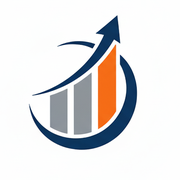
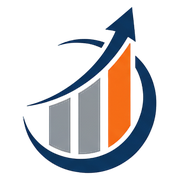
Transparent derived mark; invite example at the inviter's domain; Pillow declared
- manage.py build_favicons --derive writes assets/brand/mark-transparent.png
  beside the owner's mark (which is unchanged) and builds the icons from
  it: only the white connected to the edge becomes transparent, the
  anti-aliased edge is un-mixed from white so there is no halo, and the
  margins are trimmed (469 -> 380 px, square). Icons regenerated.
- The staff invite example was name@getexecutivesnow.com for every
  practice; it is now at the inviter's own email domain (P2 replaces it
  with the practice's stored domain).
- Fix: build_favicons imports Pillow inside a function and P1 step 6
  (52b7a00) did not declare it in config.startup.NEEDS, so
  test_runtime_dependencies failed on dev from that commit until this one.
  Step 6 was committed after running only its own tests.

Tests: build_favicons derive (1), Staff.test.tsx (2).
Backend 1972 passed; frontend 516.

diff --git a/frontend/src/screens/Staff.tsx b/frontend/src/screens/Staff.tsx
@@ -3,11 +3,14 @@ import { useMutation, useQuery, useQueryClient } from "@tanstack/react-query";
 import { useState } from "react";
 
 import { Banner, Card, Empty, Field, Pill, when } from "../components/ui";
-import { api, StaffMember } from "../lib/api";
+import { api, Me, StaffMember } from "../lib/api";
 import { STAFF_ROLES, roleLabel } from "../lib/roles";
 
-export function Staff() {
+export function Staff({ me }: { me: Me }) {
   const qc = useQueryClient();
+  // The example address is at the inviter's own domain: Google sign-in is
+  // restricted to it (banner below). Never another practice's domain.
+  const domain = me.email.split("@")[1] || "example.com";
   const [email, setEmail] = useState("");
   const [name, setName] = useState("");
   const [role, setRole] = useState("VA");
@@ -68,7 +71,7 @@ export function Staff() {
       <Card title="Invite someone">
         <div className="row">
           <Field label="Email"><input value={email} onChange={(e) => setEmail(e.target.value)}
-            placeholder="name@getexecutivesnow.com" /></Field>
+            placeholder={`name@${domain}`} /></Field>
           <Field label="Name"><input value={name} onChange={(e) => setName(e.target.value)} /></Field>
           <Field label="Role">
             <select value={role} onChange={(e) => setRole(e.target.value)}>

diff --git a/frontend/src/screens/Staff.test.tsx b/frontend/src/screens/Staff.test.tsx
@@ -1,0 +1,26 @@
+import { screen } from "@testing-library/react";
+import { beforeEach, describe, expect, it, vi } from "vitest";
+
+import { aMe } from "../test/fixtures";
+import { mockApi, renderRoute } from "../test/render";
+import { Staff } from "./Staff";
+
+describe("the staff screen", () => {
+  beforeEach(() => vi.unstubAllGlobals());
+
+  it("suggests an address at the inviter's own domain, not Executives Now's", async () => {
+    vi.stubGlobal("fetch", mockApi({ "GET /api/staff/": [] }));
+    renderRoute(<Staff me={aMe({ role: "FF", email: "shawn@blueskybizconsulting.com" })} />);
+    expect(await screen.findByPlaceholderText("name@blueskybizconsulting.com"))
+      .toBeInTheDocument();
+    expect(screen.queryByPlaceholderText(/getexecutivesnow/)).toBeNull();
+  });
+
+  it("names the roles in its pickers", async () => {
+    vi.stubGlobal("fetch", mockApi({ "GET /api/staff/": [] }));
+    renderRoute(<Staff me={aMe({ role: "FF" })} />);
+    expect(await screen.findByRole("option", { name: "Assistant" })).toBeInTheDocument();
+    expect(screen.getByRole("option", { name: "Associate" })).toBeInTheDocument();
+    expect(screen.getByRole("option", { name: "Practice owner" })).toBeInTheDocument();
+  });
+});

diff --git a/frontend/src/App.tsx b/frontend/src/App.tsx
@@ -276,7 +276,7 @@ export function App() {
             <Route path="/settings/branding" element={<Branding />} />
             <Route path="/referrals" element={<ReferralSettings />} />
             <Route path="/rules" element={<StageRules />} />
-            <Route path="/staff" element={<Staff />} />
+            <Route path="/staff" element={<Staff me={me} />} />
             <Route path="/ai-usage" element={<AiUsage />} />
             <Route path="/notes" element={<Notes me={me} />} />
             <Route path="/notes/pin-reset/:token" element={<PinReset />} />

diff --git a/apps/tenancy/management/commands/build_favicons.py b/apps/tenancy/management/commands/build_favicons.py
@@ -1,6 +1,14 @@
 """Write the product's tab icons from its mark (P1, owner 2026-10-02).
 
     manage.py build_favicons [--source assets/brand/mark.png] [--out frontend/public/brand]
+    manage.py build_favicons --derive    # first write assets/brand/mark-transparent.png
+
+`--derive` makes the owner's mark (supplied on opaque white, with wide
+margins) into a transparent, trimmed, square file beside the original, and
+builds the icons from that (owner, 2026-10-02: keep the original). Only the
+white connected to the image's edge becomes transparent, so white inside the
+mark stays white and the gray bars stay solid; the edge pixels between the
+two are made partly transparent so the curve stays smooth on a dark tab bar.
 
 Writes `favicon.ico` (16, 32 and 48 px inside), `favicon-32.png`,
 `apple-touch-icon.png` (180), `icon-192.png` and `icon-512.png`. The outputs
@@ -38,6 +46,8 @@ class Command(BaseCommand):
     def add_arguments(self, parser):
         parser.add_argument("--source", default=str(settings.BASE_DIR / "assets/brand/mark.png"))
         parser.add_argument("--out", default=str(settings.BASE_DIR / "frontend/public/brand"))
+        parser.add_argument("--derive", action="store_true",
+                            help="Write mark-transparent.png beside the source and build from it")
 
     def handle(self, *args, **options):
         from PIL import Image
@@ -45,6 +55,12 @@ class Command(BaseCommand):
         source = Path(options["source"])
         if not source.is_file():
             raise CommandError(f"No mark at {source}.")
+        if options["derive"]:
+            derived = source.with_name(f"{source.stem}-transparent.png")
+            derive_transparent(source, derived)
+            self.stdout.write(f"  {derived.name:<22} transparent, trimmed, square "
+                              f"(from {source.name}, which is unchanged)")
+            source = derived
         with Image.open(source) as opened:
             if opened.format != "PNG":
                 raise CommandError(f"{source.name} is {opened.format}; use a PNG.")
@@ -74,3 +90,63 @@ class Command(BaseCommand):
         image.save(out / "favicon.ico", sizes=ICO_SIZES)
         self.stdout.write(f"  {'favicon.ico':<22} 16, 32, 48")
         self.stdout.write(f"Done: {out} from {source.name} ({width} x {height}).")
+
+
+#: A pixel this close to white, connected to the edge, is background.
+WHITE_FLOOR = 235
+#: Margin left around the artwork after trimming, as a share of its size.
+TRIM_MARGIN = 0.04
+
+
+def derive_transparent(source: Path, out: Path) -> None:
+    """The mark without its white background or margins, on a square canvas."""
+    from PIL import Image, ImageDraw, ImageFilter
+
+    image = Image.open(source).convert("RGBA")
+    width, height = image.size
+    pixels = image.load()
+
+    # 1. Background: the near-white region connected to the edge.
+    mask = Image.new("L", image.size, 0)
+    near_white = mask.load()
+    for y in range(height):
+        for x in range(width):
+            r, g, b, _ = pixels[x, y]
+            if min(r, g, b) >= WHITE_FLOOR:
+                near_white[x, y] = 255
+    for x in range(width):
+        for y in (0, height - 1):
+            if near_white[x, y] == 255:
+                ImageDraw.floodfill(mask, (x, y), 128)
+    for y in range(height):
+        for x in (0, width - 1):
+            if near_white[x, y] == 255:
+                ImageDraw.floodfill(mask, (x, y), 128)
+    background = mask.point(lambda v: 255 if v == 128 else 0)
+
+    # 2. The fringe beside the background: un-mix it from white, so the
+    #    anti-aliased edge keeps its shape with no white halo.
+    fringe = background.filter(ImageFilter.MaxFilter(5))
+    bg, ring = background.load(), fringe.load()
+    for y in range(height):
+        for x in range(width):
+            r, g, b, _ = pixels[x, y]
+            if bg[x, y]:
+                pixels[x, y] = (255, 255, 255, 0)
+            elif ring[x, y]:
+                alpha = max(255 - r, 255 - g, 255 - b) / 255
+                if alpha <= 0:
+                    pixels[x, y] = (255, 255, 255, 0)
+                else:
+                    unmix = [round((c - 255 * (1 - alpha)) / alpha) for c in (r, g, b)]
+                    pixels[x, y] = (*[max(0, min(255, c)) for c in unmix], round(alpha * 255))
+
+    # 3. Trim to the artwork, keep a small margin, and center it on a square.
+    box = image.getchannel("A").getbbox()
+    if box is None:
+        raise CommandError("The mark is entirely background.")
+    art = image.crop(box)
+    side = round(max(art.size) * (1 + 2 * TRIM_MARGIN))
+    canvas = Image.new("RGBA", (side, side), (255, 255, 255, 0))
+    canvas.paste(art, ((side - art.width) // 2, (side - art.height) // 2))
+    canvas.save(out, "PNG", optimize=True)

diff --git a/tests/test_build_favicons.py b/tests/test_build_favicons.py
@@ -45,3 +45,31 @@ def test_refuses_a_mark_it_cannot_make_good_icons_from(tmp_path, size, fmt, need
 def test_says_when_there_is_no_mark_yet(tmp_path):
     with pytest.raises(CommandError, match="No mark at"):
         call_command("build_favicons", "--source", str(tmp_path / "mark.png"))
+
+
+def test_derive_makes_the_edge_white_transparent_and_keeps_white_inside(tmp_path):
+    """Only white connected to the edge is background: a white hole inside
+    the mark stays white, a gray bar stays solid, and the margins go."""
+    from PIL import ImageDraw
+
+    source = tmp_path / "mark.png"
+    image = Image.new("RGB", (400, 400), (255, 255, 255))
+    draw = ImageDraw.Draw(image)
+    draw.rectangle((100, 100, 300, 300), fill=(10, 58, 101))       # navy block
+    draw.rectangle((180, 180, 220, 220), fill=(255, 255, 255))     # white hole inside
+    draw.rectangle((120, 120, 150, 280), fill=(147, 149, 152))     # gray bar
+    image.save(source)
+
+    out = tmp_path / "brand"
+    call_command("build_favicons", "--source", str(source), "--out", str(out), "--derive")
+    derived = Image.open(tmp_path / "mark-transparent.png")
+    assert source.exists() and Image.open(source).mode == "RGB", "the original is unchanged"
+    side = derived.size[0]
+    assert derived.size == (side, side) and side < 400, "trimmed and square"
+    corner = derived.getpixel((0, 0))
+    centre = derived.getpixel((side // 2, side // 2))
+    bar = derived.getpixel((round(side * 0.2), side // 2))
+    assert corner[3] == 0
+    assert centre == (255, 255, 255, 255), "white enclosed by the mark stays"
+    assert bar[3] == 255 and bar[:3] == (147, 149, 152), "gray stays solid"
+    assert Image.open(out / "icon-192.png").mode == "RGBA"

diff --git a/config/startup.py b/config/startup.py
@@ -65,6 +65,8 @@ NEEDS: tuple[Need, ...] = (
          "reading and writing every stored secret, including API keys"),
     Need("requests", "requests",
          "sending mail through Gmail, and the Google OAuth token exchange"),
+    Need("PIL", "pillow",
+         "writing the product's tab icons from its mark (manage.py build_favicons)"),
 )
 
 
